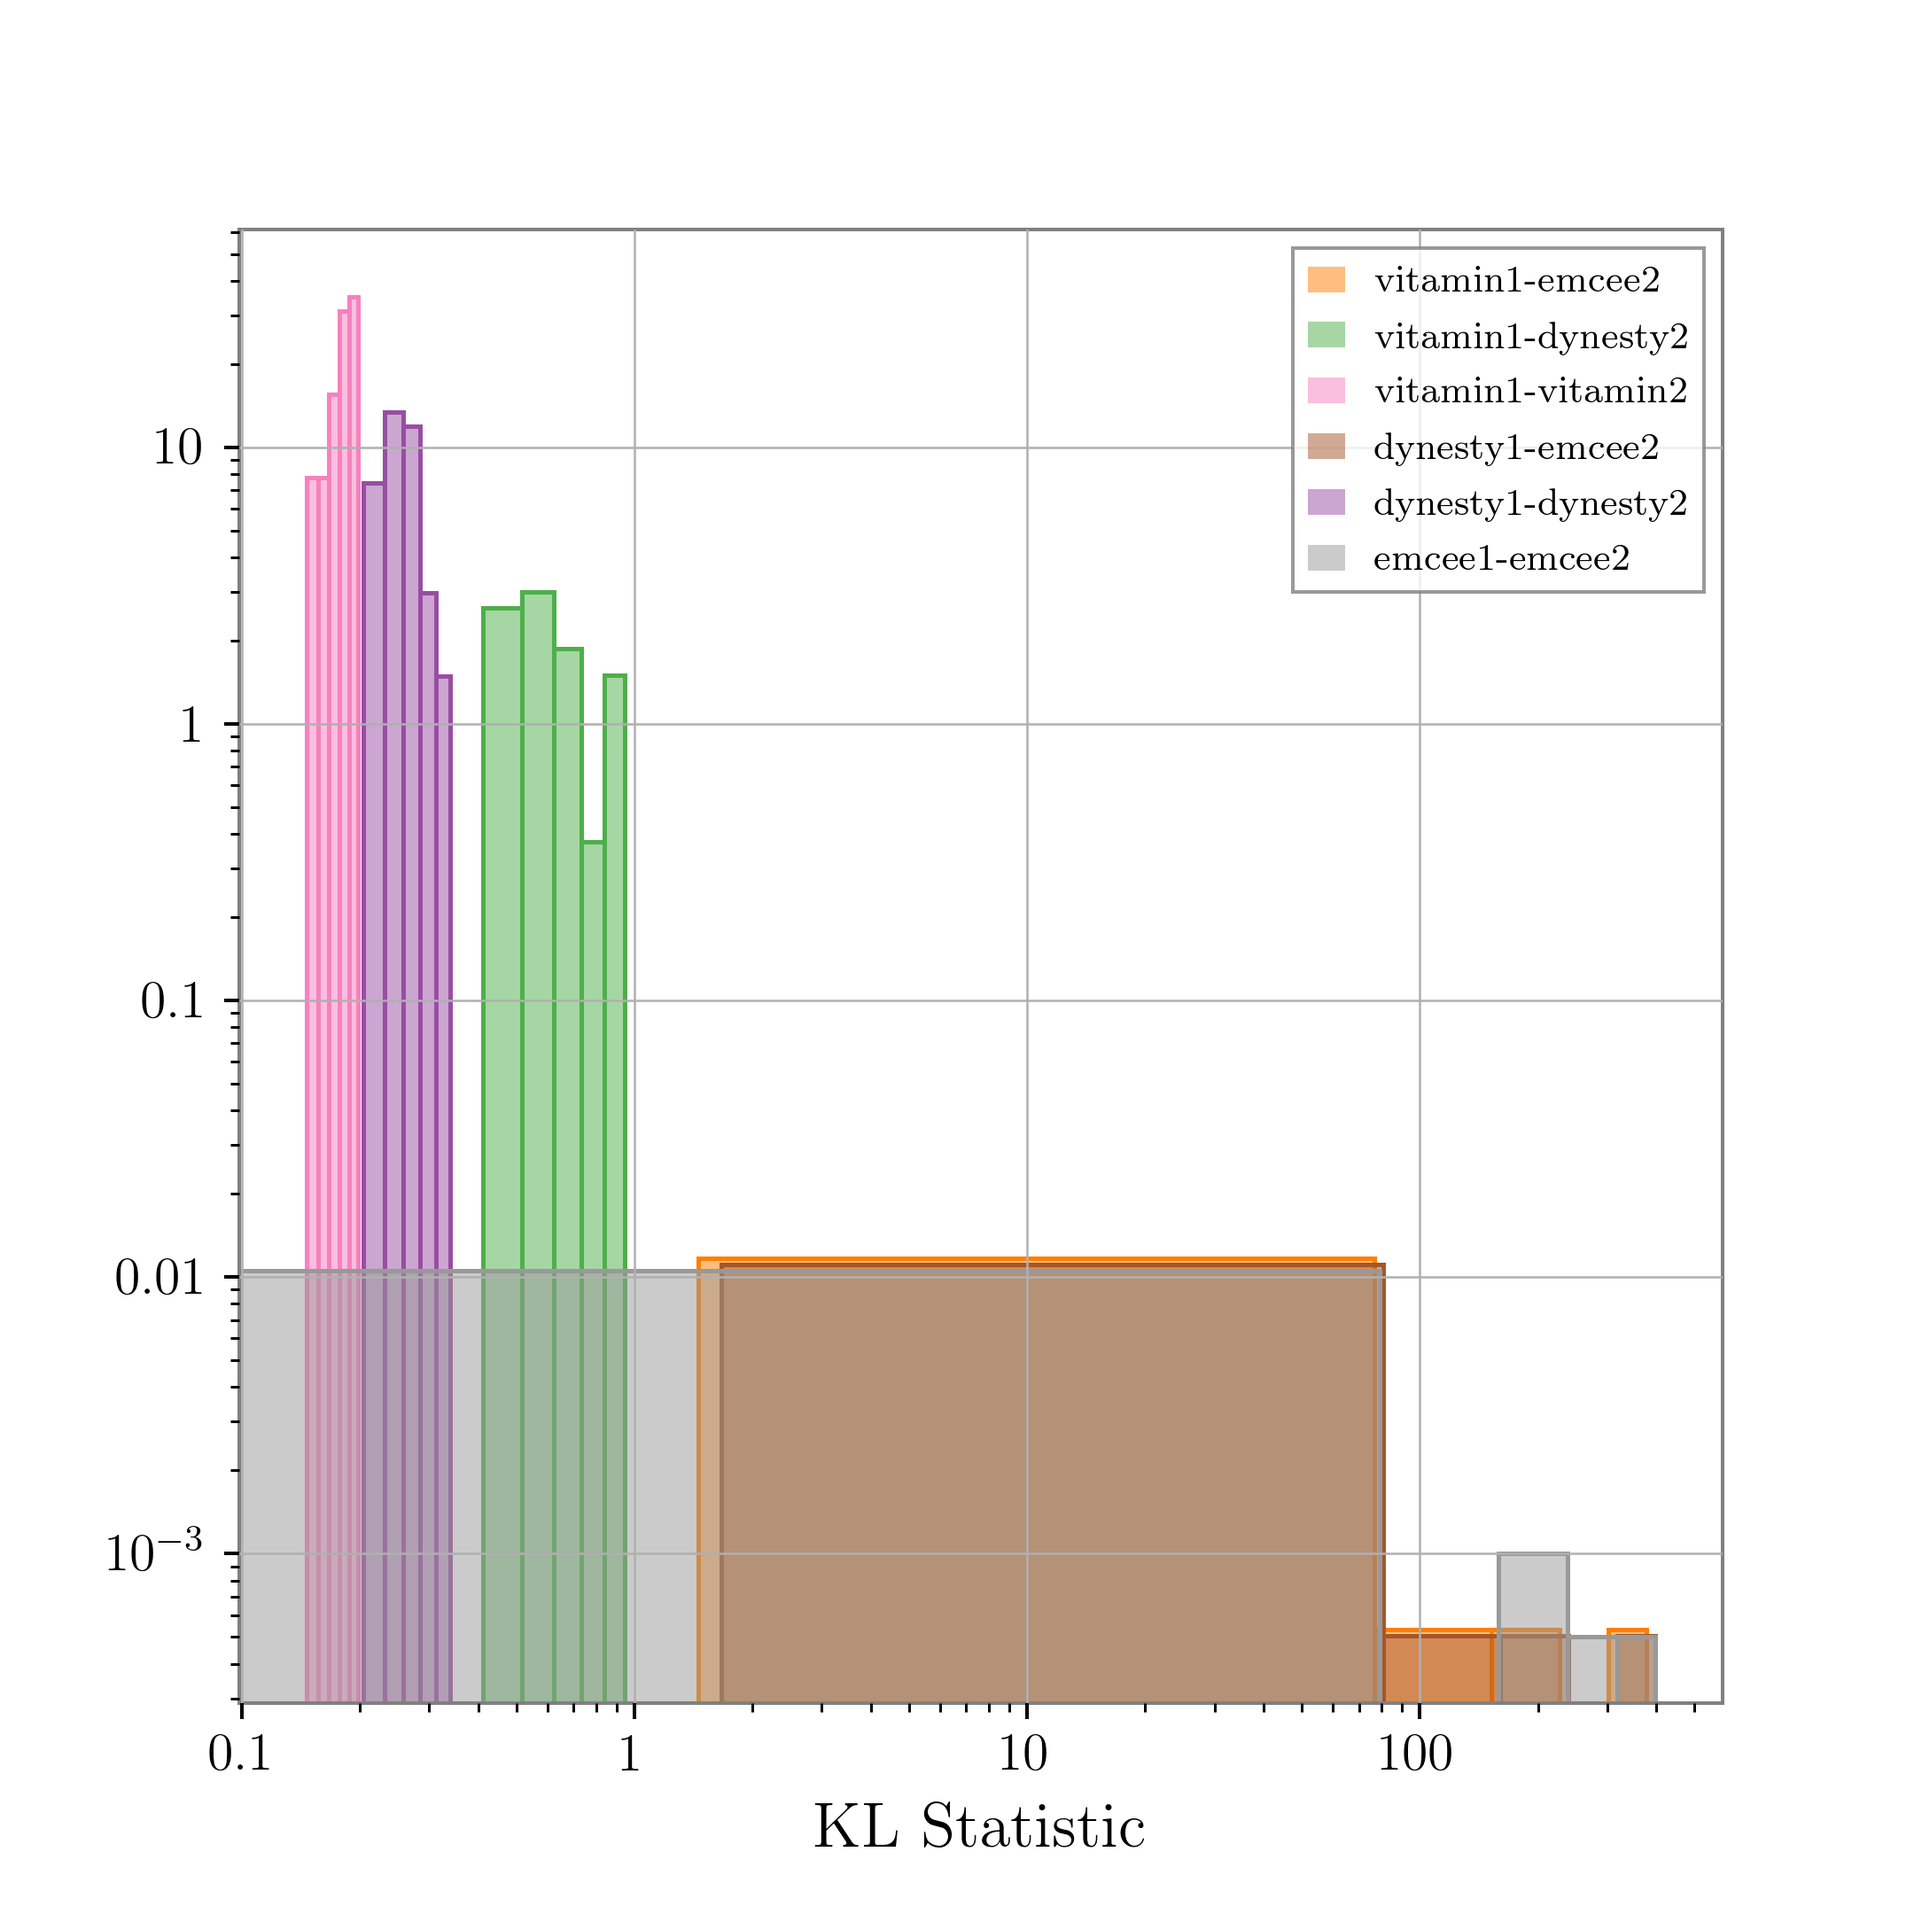
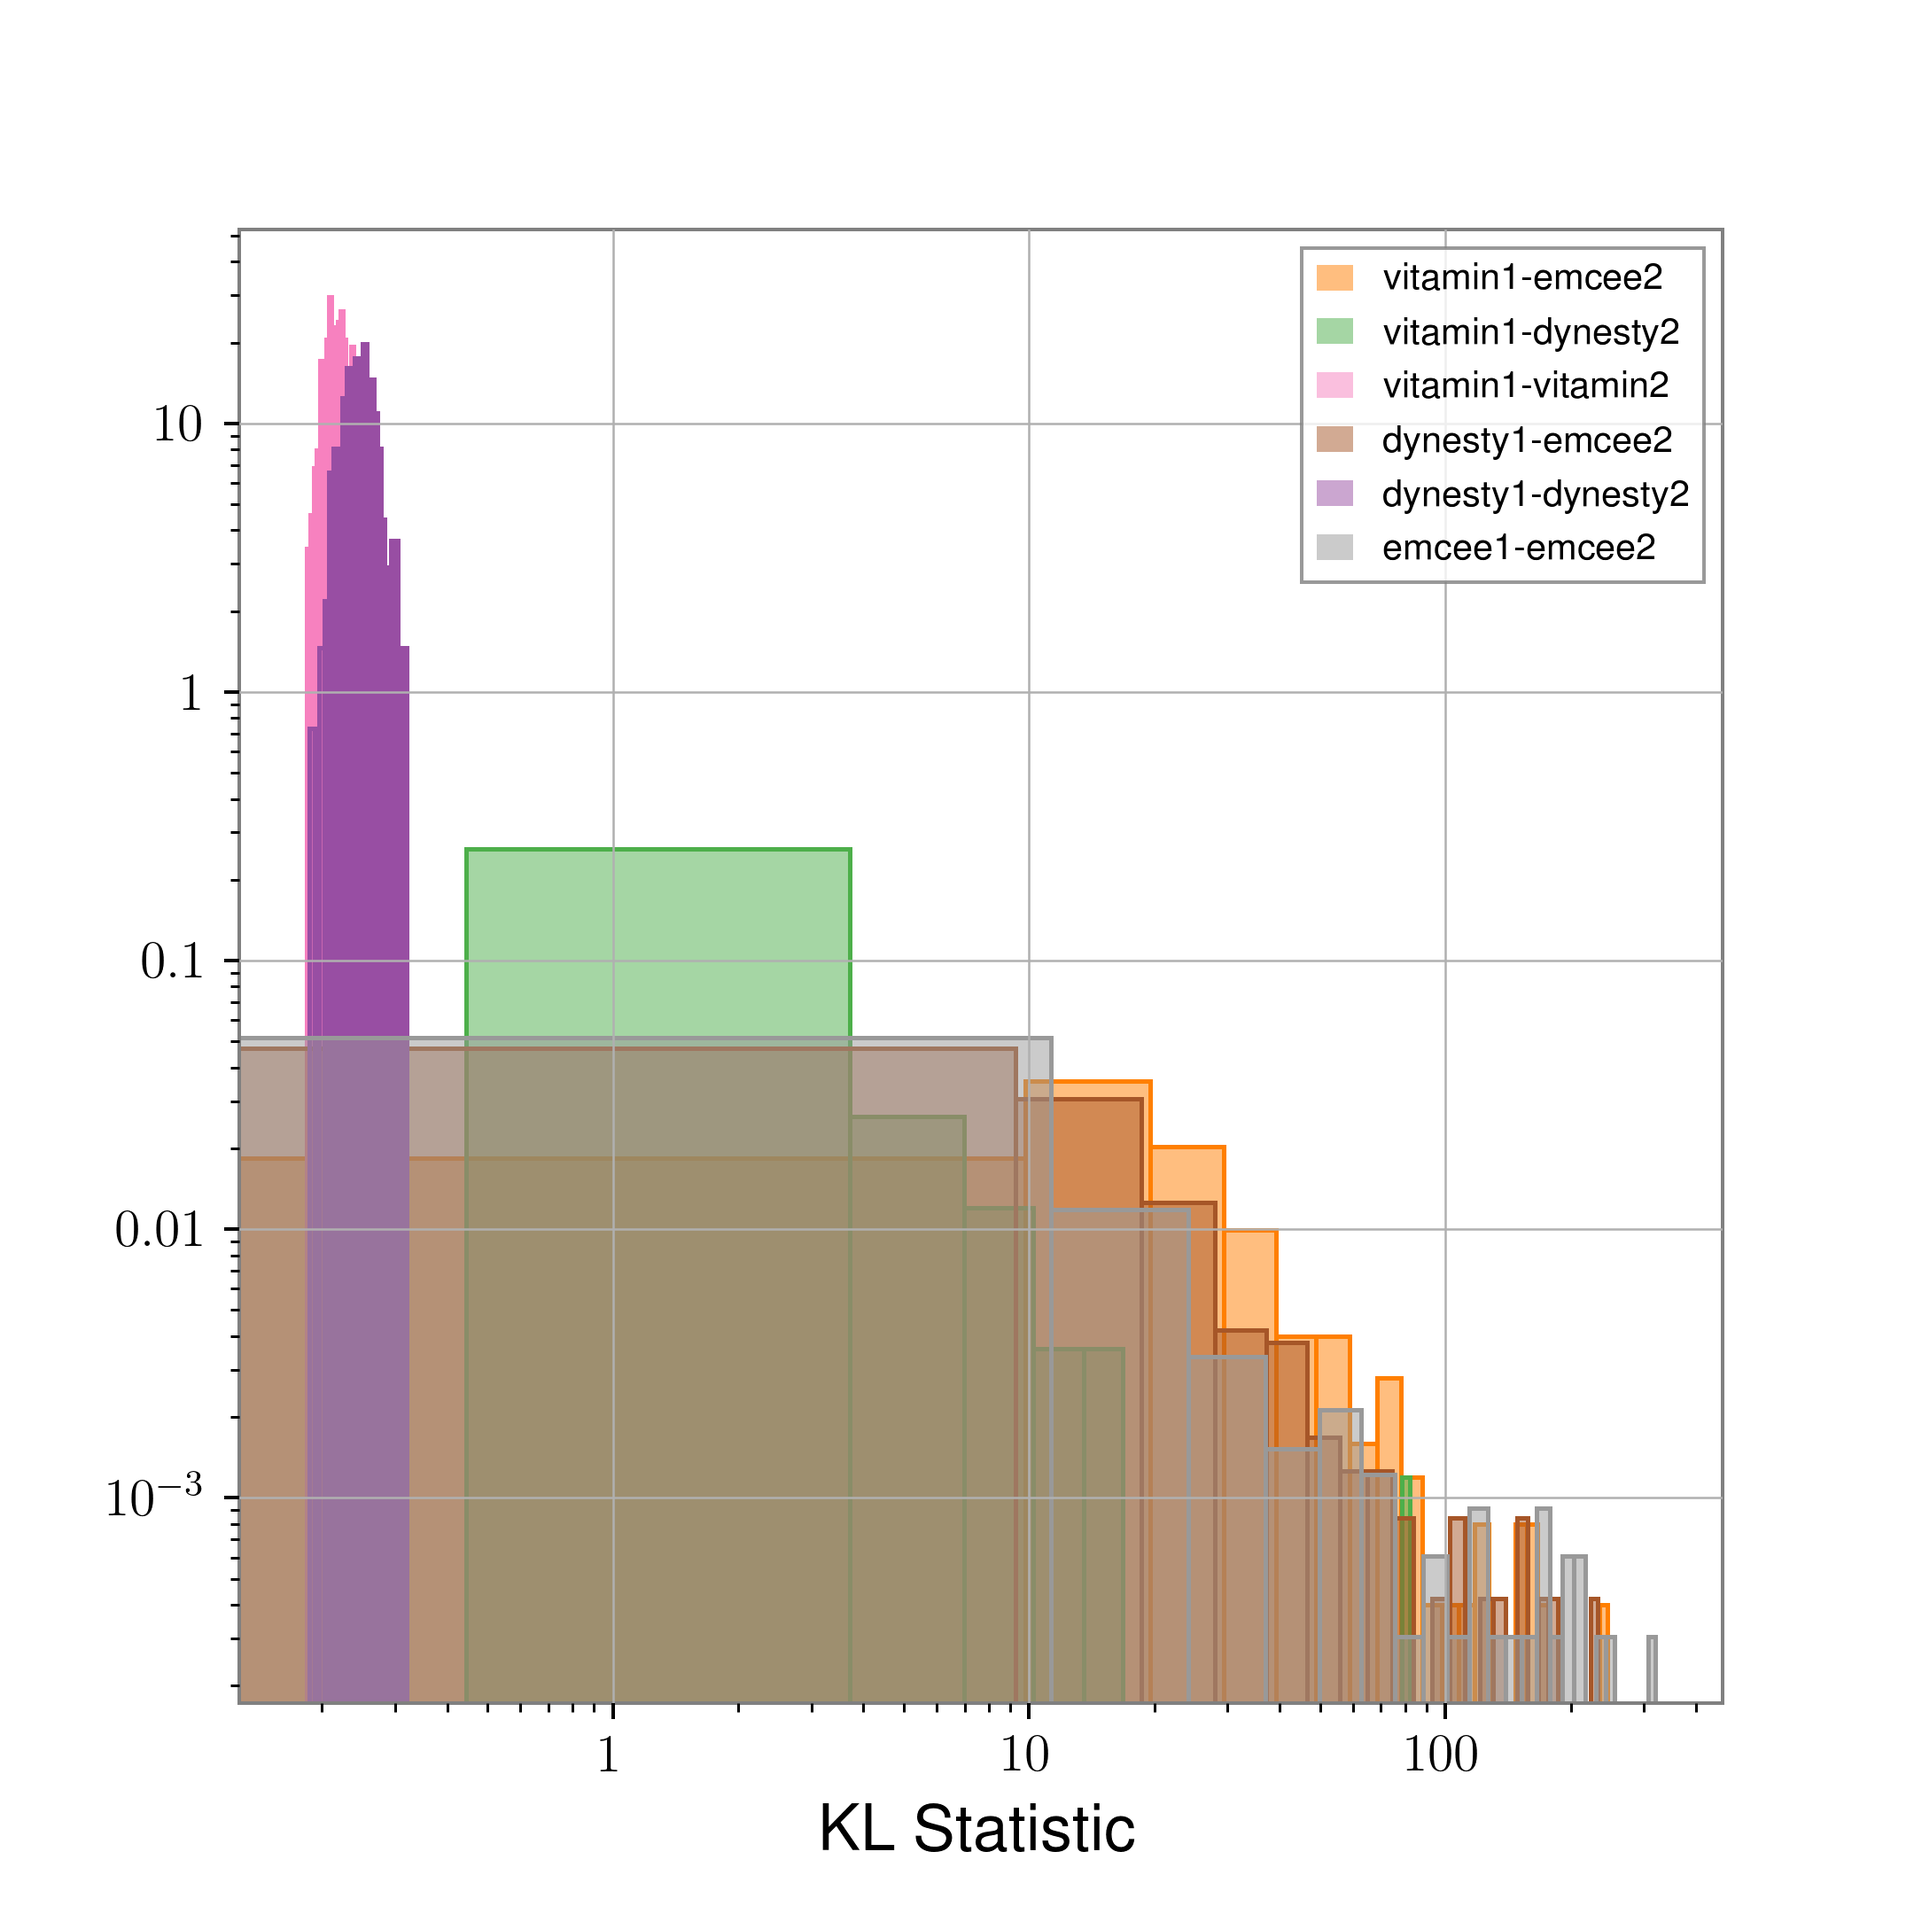
most up-to-date version of paper

diff --git a/VItamin.tex b/VItamin.tex
@@ -474,8 +474,7 @@ procedure with the same input data (see Eq.~\ref{eq:latent_model}).
 %
 % Intro to the results - what are we trying to do?
 %
-We present results on $25$\chris{this number needs to be bigger, maybe 10 times
-bigger} \ac{GW} test waveforms in simulated advanced detector noise and compare
+We present results on $256$ \ac{GW} test waveforms in simulated advanced detector noise and compare
 between the existing Bayesian approaches and the \ac{CVAE}. Posteriors produced
 by the \texttt{Bilby} inference library~\cite{1811.02042} are used as a
 benchmark in order to assess the efficiency and quality of our machine learning
@@ -511,7 +510,7 @@ The waveforms are also of identical duration, sampling frequency, and waveform
 model and when each waveform is placed within a training batch it is given a
 unique detector noise realisation. The data are then whitened using the same
 advanced detector \ac{PSD} from which the simulated noise is generated. The
-\ac{CVAE} posterior results are produced by passing our $N?$ whitened noisy
+\ac{CVAE} posterior results are produced by passing our 256 whitened noisy
 testing set of \ac{GW} waveforms as input into the testing path of the
 pre-trained \ac{CVAE}. For each input waveform we sample until we have
 generated $5000$ posterior samples on 4 physical parameters
@@ -559,11 +558,11 @@ values). I think something based on the 1-D intervals would be nice.}
 \begin{figure}
     \includegraphics[width=\columnwidth]{images/hist-kl.png}
     \caption{\label{fig:kl_results} We plot the KL-divergence values of
-three~\chris{update this with more samplers} independent samplers against each
-other over the same $N?$ \ac{GW} test waveforms. Posterior samples are computed
-for each of the $N?$ \ac{GW} waveforms using each sampler twice. A KL
+five independent samplers against each
+other over the same 256 \ac{GW} test waveforms. Posterior samples are computed
+for each of the 256 \ac{GW} waveforms using each sampler twice. A KL
 divergence is then computed between all samplers with every other sampler
-(including themselves) over all 25 \ac{GW} test cases. The distributions of the
+(including themselves) over all 256 \ac{GW} test cases. The distributions of the
 resulting KL divergence values are then plotted, with each color representing a
 different sampler combination. Both the $x$ and $y$ axes are scaled
 logarithmically for readability.} 
@@ -580,20 +579,19 @@ each sampler with all other samplers. For distributions that are identical the
 KL-divergence is equal to zero but since we are representing our posterior
 distributions using finite numbers of samples, identical distributions should
 result in KL-divergence values $<1$. In Fig.~\ref{fig:kl_results} we show the
-distributions of these KL-divergences for the $N?$ test \ac{GW} samples where
+distributions of these KL-divergences for the 256 test \ac{GW} samples where
 we see that samplers compared with themselves produce KL values that are
 generally $<1$ with the exception of the Emcee sampler. More importantly we see
 that the \ac{CVAE} approach when compared to the existing samplers have KL
 values that match the values produced when comparing between 2 different
-existing samplers.~\chris{we really need to tidy up this part of the analysis
-and look at more samplers.} 
+existing samplers.
 
 %
 % P-P plot
 %
 \begin{figure}
     \includegraphics[width=\columnwidth]{images/latest_pp_plot.png}
-    \caption{\label{fig:pp_plot} P-P plot (defined in the main text) using $N?$
+    \caption{\label{fig:pp_plot} P-P plot (defined in the main text) using 256
 unique test samples and $5000$ posterior sample predictions per test sample.
 The $x$-axis denotes the theoretical cumulative distribution whereas the y-axis
 denotes the predicted cumulative distribution.~\chris{we might have to work on
@@ -623,9 +621,7 @@ Predictions from the \ac{CVAE} consistent with the black dashed diagonal line
 is indicative that the Bayesian probability distributions are consistent with
 the frequentest interpretation - that the truth will lie inside the $X\%$
 probability contour with a frequency of $X\%$ of the time.  We plot empirical
-results as those represented in the blue line.~\chris{as mentioned in the
-figure caption comments, please add p-p plot curves for the other samplers run
-on the same test data.} 
+results as those represented in the blue line. 
 
 %
 % discuss the speed of the analysis
@@ -641,7 +637,7 @@ techniques, representing a dramatic speed-up in performance. It should be noted
 that run-time for the Bayesian samplers is also dependent on the choice of
 sampler hyperparameters, so total run-time may vary according to hyperparameter
 configuration. We choose Bayesian sampler hyperparameters based on standard default configurations defined in the \texttt{Bilby}
-documentation~\cite{1811.02042}.~\chris{Also, we need to add more samplers to this list.} 
+documentation~\cite{1811.02042}. 
  
 
 %\chris{One more thing to add, especially if the other KL, AD, and PP plots
@@ -666,9 +662,11 @@ the different posterior sampling approaches}
 & & run time (sec) & & \\
 & min & max & median & Ratio \\
 \hline
-Dynesty & 553.9 & 1313.4 & 935.8 & $1.3\times 10^{-6}$ \\
-Emcee & 1642.0 & 4040.1 & 3235.4 & $3.7\times 10^{-7}$ \\
-VItamin & - & - & $1.2\times 10^{-3}$ & 1.0 \\
+Dynesty & 602.3 & 1537.8 & 773.6 & $2.6\times 10^{-6}$ \\
+Emcee & 2005.3 & 11926.5 & 4350.9 & $4.6\times 10^{-7}$ \\
+Ptemcee & 3353.9 & 12771.4 & 4981.5 & $4.0\times 10^{-7}$ \\
+Cpnest & 1430.7 & 5405.4 & 2286.9 & $8.8\times 10^{-7}$ \\
+VItamin & - & - & $2.0\times 10^{-3}$ & 1.0 \\
 \botrule
 \end{tabular}
 \label{Tab:speed}
